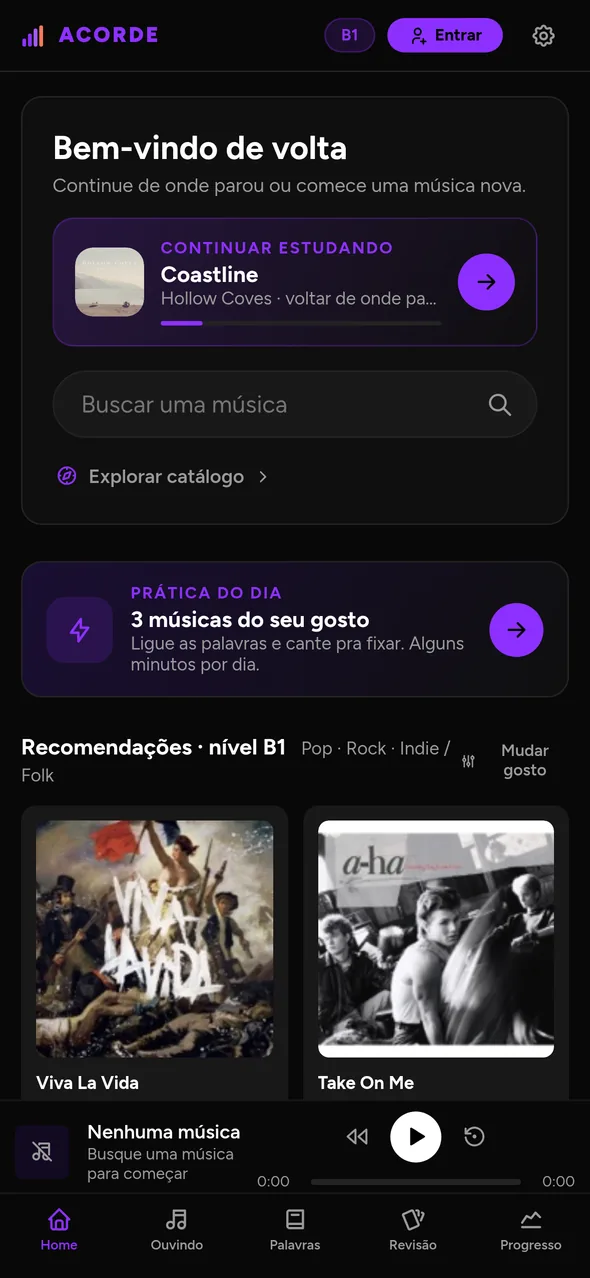
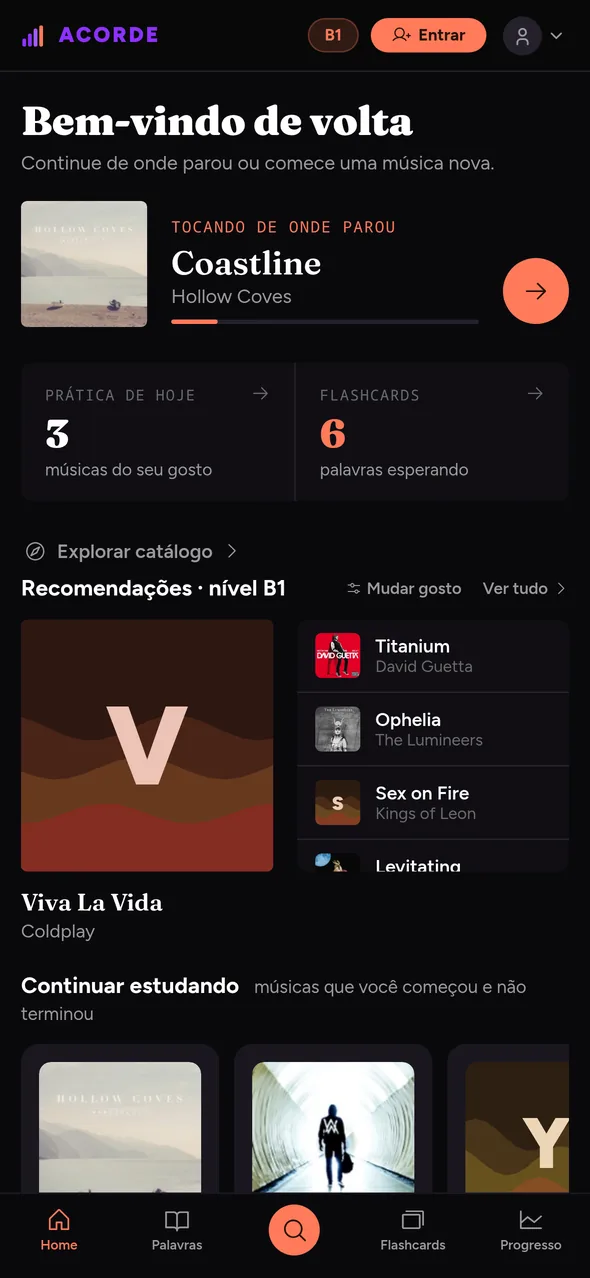
feat: faixa horizontal do Acorde e telas com a identidade nova
Na home, antes da secao Projetos, uma faixa que traduz scroll vertical em
horizontal: 6 paineis narrando uma sessao de estudo do inicio ao fim, mais
um painel de fechamento que leva ao case.

- motion (Framer Motion) adicionado: home foi de 118 kB para 164 kB de
  First Load JS. Unica dependencia de animacao do projeto.
- Deslocamento em porcentagem do trilho, nao em vw: 100vw inclui a barra
  de rolagem e cortava o ultimo painel pela largura dela.
- Abaixo de 1024px, ou com prefers-reduced-motion, vira carrossel de
  arrastar com snap. Scroll-jack em touch e hostil.
- Telas do Acorde recapturadas: a identidade mudou de roxo para coral com
  serifa Fraunces. As anteriores mostravam a UI velha.
- Card destacado do Acorde deixa de repetir imagem e bullets, vira ponte
  para o case. ProjectShots removido.

diff --git a/components/AcordeShowcase.tsx b/components/AcordeShowcase.tsx
@@ -1,0 +1,200 @@
+"use client";
+
+import { Children, useEffect, useRef, useState } from "react";
+import Link from "next/link";
+import { motion, useScroll, useTransform } from "motion/react";
+import { useLanguage } from "@/lib/context";
+
+/**
+ * Faixa horizontal do Acorde.
+ *
+ * No desktop o scroll vertical é traduzido em deslocamento horizontal por um
+ * container alto com miolo sticky. No celular vira carrossel de arrastar com
+ * snap — scroll-jack em touch é hostil e engasga.
+ */
+export default function AcordeShowcase() {
+  const { t } = useLanguage();
+  const s = t.acordeShowcase;
+  const [horizontal, setHorizontal] = useState(false);
+
+  useEffect(() => {
+    const mq = window.matchMedia("(min-width: 1024px) and (prefers-reduced-motion: no-preference)");
+    const sync = () => setHorizontal(mq.matches);
+    sync();
+    mq.addEventListener("change", sync);
+    // resize como rede de seguranca: em zoom e em alguns navegadores o evento
+    // change do matchMedia nao chega, e o modo ficaria preso no que carregou.
+    window.addEventListener("resize", sync);
+    return () => {
+      mq.removeEventListener("change", sync);
+      window.removeEventListener("resize", sync);
+    };
+  }, []);
+
+  // +1 pelo painel de fechamento
+  const total = s.panels.length + 1;
+
+  return (
+    <section id="acorde" className="relative border-t border-[var(--border)]">
+      <Header eyebrow={s.eyebrow} title={s.title} lead={s.lead} />
+      {horizontal ? (
+        <HorizontalTrack total={total}>
+          {s.panels.map((p) => (
+            <Panel key={p.n} {...p} />
+          ))}
+          <Closing closing={s.closing} />
+        </HorizontalTrack>
+      ) : (
+        <div className="flex snap-x snap-mandatory gap-4 overflow-x-auto px-6 pb-16 [scrollbar-width:none] [&::-webkit-scrollbar]:hidden">
+          {s.panels.map((p) => (
+            <div key={p.n} className="w-[85vw] shrink-0 snap-center">
+              <Panel {...p} compact />
+            </div>
+          ))}
+          <div className="w-[85vw] shrink-0 snap-center">
+            <Closing closing={s.closing} compact />
+          </div>
+        </div>
+      )}
+    </section>
+  );
+}
+
+function Header({ eyebrow, title, lead }: { eyebrow: string; title: string; lead: string }) {
+  return (
+    <div className="mx-auto max-w-6xl px-6 pt-24 pb-10">
+      <h2 className="mb-3 font-mono text-xs uppercase tracking-widest text-accent">{eyebrow}</h2>
+      <p className="max-w-2xl text-3xl font-semibold tracking-tight text-primary sm:text-4xl">
+        {title}
+      </p>
+      <p className="mt-4 max-w-xl leading-relaxed text-muted">{lead}</p>
+    </div>
+  );
+}
+
+/** Container alto + miolo sticky: o progresso do scroll vira translateX. */
+function HorizontalTrack({ total, children }: { total: number; children: React.ReactNode }) {
+  const ref = useRef<HTMLDivElement>(null);
+  const { scrollYProgress } = useScroll({ target: ref, offset: ["start start", "end end"] });
+  // porcentagem do proprio trilho, nao vw: 100vw inclui a barra de rolagem e
+  // deixaria o ultimo painel cortado pela largura dela.
+  const x = useTransform(scrollYProgress, [0, 1], ["0%", `-${((total - 1) / total) * 100}%`]);
+  const progress = useTransform(scrollYProgress, [0, 1], ["0%", "100%"]);
+
+  return (
+    <div ref={ref} style={{ height: `${total * 80}vh` }}>
+      <div className="sticky top-0 h-screen overflow-hidden">
+        <motion.div
+          style={{ x, width: `${total * 100}%` }}
+          className="flex h-full will-change-transform"
+        >
+          {Children.map(children, (child) => (
+            <div className="h-full shrink-0" style={{ width: `${100 / total}%` }}>
+              {child}
+            </div>
+          ))}
+        </motion.div>
+
+        {/* trilho de progresso da faixa */}
+        <div className="absolute inset-x-0 bottom-10 mx-auto h-px w-40 bg-[var(--border)]">
+          <motion.div style={{ width: progress }} className="h-full bg-[var(--text)]" />
+        </div>
+      </div>
+    </div>
+  );
+}
+
+function Panel({
+  n,
+  title,
+  body,
+  shot,
+  alt,
+  compact = false,
+}: {
+  n: string;
+  title: string;
+  body: string;
+  shot: string;
+  alt: string;
+  compact?: boolean;
+}) {
+  return (
+    <div
+      className={
+        compact
+          ? "flex flex-col items-center gap-6 rounded-2xl border border-[var(--border)] bg-surface p-8"
+          : "flex h-full w-full items-center justify-center px-16"
+      }
+    >
+      <div
+        className={
+          compact
+            ? "flex flex-col items-center gap-6 text-center"
+            : "flex max-w-4xl items-center gap-16"
+        }
+      >
+        <div className="shrink-0 rounded-[1.75rem] border border-[var(--border)] bg-surface p-1.5 shadow-2xl shadow-black/60">
+          {/* eslint-disable-next-line @next/next/no-img-element */}
+          <img
+            src={shot}
+            alt={alt}
+            width={590}
+            height={1278}
+            loading="lazy"
+            className="block rounded-[1.35rem]"
+            style={{ width: compact ? 200 : 250 }}
+          />
+        </div>
+
+        <div className={compact ? "" : "max-w-sm"}>
+          <span className="font-mono text-xs text-accent">{n}</span>
+          <h3 className="mt-3 text-2xl font-semibold tracking-tight text-primary sm:text-3xl">
+            {title}
+          </h3>
+          <p className="mt-4 leading-relaxed text-muted">{body}</p>
+        </div>
+      </div>
+    </div>
+  );
+}
+
+function Closing({
+  closing,
+  compact = false,
+}: {
+  closing: { title: string; body: string; cta: string; visit: string };
+  compact?: boolean;
+}) {
+  return (
+    <div
+      className={
+        compact
+          ? "flex h-full flex-col justify-center rounded-2xl border border-[var(--border)] bg-surface p-8 text-center"
+          : "flex h-full w-full flex-col items-center justify-center px-16 text-center"
+      }
+    >
+      <h3 className="max-w-2xl text-3xl font-semibold tracking-tight text-primary sm:text-5xl">
+        {closing.title}
+      </h3>
+      <p className="mt-6 max-w-xl leading-relaxed text-muted">{closing.body}</p>
+
+      <div className="mt-10 flex flex-wrap justify-center gap-4">
+        <Link
+          href="/projetos/acorde"
+          className="bg-accent px-6 py-3 font-mono text-sm text-black transition-opacity duration-150 hover:opacity-80"
+        >
+          {closing.cta} →
+        </Link>
+        <a
+          href="https://acorde.club"
+          target="_blank"
+          rel="noopener noreferrer"
+          className="border border-[var(--border)] px-6 py-3 font-mono text-sm text-primary transition-colors duration-150 hover:border-accent"
+        >
+          {closing.visit} ↗
+        </a>
+      </div>
+    </div>
+  );
+}

diff --git a/lib/translations.ts b/lib/translations.ts
@@ -287,6 +287,25 @@ export const translations = {
         "Root Cause Analysis",
       ],
     },
+    acordeShowcase: {
+      eyebrow: "LIVE PRODUCT",
+      title: "One study session, start to finish",
+      lead: "Acorde turns a song you already listen to into an English lesson. This is what a single session looks like.",
+      panels: [
+        { n: "01", title: "You pick the song", body: "No fixed word list. The lesson starts from something you already wanted to hear.", shot: "/acorde/home.webp", alt: "Acorde home screen" },
+        { n: "02", title: "The lyric follows the audio", body: "Synced line by line, with translation one tap away. Reading never interrupts listening.", shot: "/acorde/letra.webp", alt: "Synced lyrics with translation" },
+        { n: "03", title: "Focus mode: one line at a time", body: "Everything else blurs out. The cognitive load drops to a single sentence.", shot: "/acorde/foco.webp", alt: "Focus mode, one line at a time" },
+        { n: "04", title: "You sing it, you get a score", body: "Whisper transcribes and grades word by word. When the API fails, the browser engine takes over.", shot: "/acorde/fala.webp", alt: "Speaking practice with per-word score" },
+        { n: "05", title: "The hard word becomes a flashcard", body: "What you missed goes into spaced repetition (SM-2) and comes back exactly when you are about to forget.", shot: "/acorde/revisao.webp", alt: "Spaced repetition flashcard" },
+        { n: "06", title: "The streak holds the routine", body: "Daily challenge, XP and push reminders. Each one exists to bring you back to a session that already works.", shot: "/acorde/progresso.webp", alt: "Progress and streak screen" },
+      ],
+      closing: {
+        title: "Built, tested and operated end to end",
+        body: "Same standards I use as a QA: instrumented activation funnel, tested critical paths and every feature measured in production before scaling.",
+        cta: "Read the full case study",
+        visit: "Open acorde.club",
+      },
+    },
     acordeCase: {
       back: "Back to portfolio",
       eyebrow: "CASE STUDY",
@@ -739,6 +758,25 @@ export const translations = {
         "Acessibilidade WCAG",
         "Análise de Causa Raiz",
       ],
+    },
+    acordeShowcase: {
+      eyebrow: "PRODUTO NO AR",
+      title: "Uma sessão de estudo, do início ao fim",
+      lead: "O Acorde transforma uma música que você já ouve em aula de inglês. É assim que uma sessão acontece.",
+      panels: [
+        { n: "01", title: "Você escolhe a música", body: "Sem lista fixa de palavras. A aula começa por algo que você já queria ouvir.", shot: "/acorde/home.webp", alt: "Tela inicial do Acorde" },
+        { n: "02", title: "A letra acompanha o áudio", body: "Sincronizada linha a linha, com tradução a um toque. Ler nunca interrompe ouvir.", shot: "/acorde/letra.webp", alt: "Letra sincronizada com tradução" },
+        { n: "03", title: "Modo foco: uma linha por vez", body: "Todo o resto desfoca. A carga cognitiva cai para uma frase só.", shot: "/acorde/foco.webp", alt: "Modo foco, uma linha por vez" },
+        { n: "04", title: "Você canta e recebe a nota", body: "O Whisper transcreve e avalia palavra a palavra. Quando a API falha, o motor do navegador assume.", shot: "/acorde/fala.webp", alt: "Prática de fala com nota por palavra" },
+        { n: "05", title: "A palavra difícil vira flashcard", body: "O que você errou entra na revisão espaçada (SM-2) e volta na hora em que você ia esquecer.", shot: "/acorde/revisao.webp", alt: "Flashcard de revisão espaçada" },
+        { n: "06", title: "O streak segura a rotina", body: "Desafio diário, XP e lembretes push. Cada um existe para trazer você de volta a uma sessão que já funciona.", shot: "/acorde/progresso.webp", alt: "Tela de progresso e streak" },
+      ],
+      closing: {
+        title: "Construído, testado e operado de ponta a ponta",
+        body: "Os mesmos padrões que uso como QA: funil de ativação instrumentado, caminhos críticos testados e cada feature medida em produção antes de escalar.",
+        cta: "Ver o estudo de caso completo",
+        visit: "Abrir acorde.club",
+      },
     },
     acordeCase: {
       back: "Voltar ao portfólio",

diff --git a/components/Projects.tsx b/components/Projects.tsx
@@ -4,7 +4,6 @@ import Link from "next/link";
 import { useLanguage } from "@/lib/context";
 import { useInView } from "@/hooks/useInView";
 import SpotlightCard from "@/components/SpotlightCard";
-import ProjectShots from "@/components/ProjectShots";
 
 export default function Projects() {
   const { t, lang } = useLanguage();
@@ -35,8 +34,8 @@ export default function Projects() {
           {/* FEATURED */}
           {featured && (
             <SpotlightCard className="mb-4">
-              <div className="p-8 flex flex-col lg:flex-row gap-10">
-                <div className="flex-1 min-w-0">
+              <div className="p-8">
+                <div className="min-w-0">
                   <div className="flex flex-wrap items-center gap-3 mb-4">
                     <h3 className="text-xl font-semibold text-primary">{featured.title}</h3>
                     {featured.label && (
@@ -58,16 +57,6 @@ export default function Projects() {
 
                   <p className="text-muted leading-relaxed mb-5">{featured.description}</p>
 
-                  {featured.detail && (
-                    <ul className="space-y-2 mb-6">
-                      {featured.detail.map((item, i) => (
-                        <li key={i} className="flex gap-2 text-sm text-muted">
-                          <span className="text-accent font-mono mt-0.5 shrink-0">—</span>
-                          <span>{item}</span>
-                        </li>
-                      ))}
-                    </ul>
-                  )}
 
                   <div className="flex flex-wrap gap-2">
                     {featured.tags.map((tag) => (
@@ -84,32 +73,7 @@ export default function Projects() {
                     {lang === "en" ? "Read the full case study" : "Ver o estudo de caso completo"} →
                   </Link>
                 </div>
-
-                {featured.snapshot && (
-                  <div className="lg:w-60 shrink-0">
-                    <p className="font-mono text-[10px] text-muted uppercase tracking-widest mb-3">
-                      // snapshot
-                    </p>
-                    <div className="border border-[var(--border)] divide-y divide-[var(--border)]">
-                      {featured.snapshot.map((m) => (
-                        <div key={m.label} className="flex items-center justify-between px-4 py-3">
-                          <span className="text-xs text-muted">{m.label}</span>
-                          <div className="flex items-center gap-1.5">
-                            <span className="font-mono text-sm font-semibold text-primary">{m.value}</span>
-                            {"up" in m && m.up !== undefined && (
-                              <span className={`font-mono text-[10px] ${m.up ? "text-green-500" : "text-red-400"}`}>
-                                {m.up ? "▲" : "▼"}
-                              </span>
-                            )}
-                          </div>
-                        </div>
-                      ))}
-                    </div>
-                  </div>
-                )}
               </div>
-
-              <ProjectShots alt={featured.title} />
             </SpotlightCard>
           )}
 

diff --git a/app/page.tsx b/app/page.tsx
@@ -3,6 +3,7 @@ import Grain from "@/components/Grain";
 import ScrollProgress from "@/components/ScrollProgress";
 import Hero from "@/components/Hero";
 import About from "@/components/About";
+import AcordeShowcase from "@/components/AcordeShowcase";
 import Projects from "@/components/Projects";
 import Experience from "@/components/Experience";
 import Education from "@/components/Education";
@@ -20,6 +21,7 @@ export default function Home() {
       <main>
         <Hero />
         <About />
+        <AcordeShowcase />
         <Projects />
         <Experience />
         <Education />

diff --git a/CLAUDE.md b/CLAUDE.md
@@ -15,7 +15,7 @@ npx tsc --noEmit # verificar tipos sem compilar
 - **Next.js 14** App Router (sem pages/)
 - **Tailwind CSS** com tema via CSS variables (não classes zinc/gray)
 - **TypeScript** strict
-- **Sem bibliotecas de animação** — tudo CSS puro + Canvas API
+- **`motion`** (Framer Motion) para animação ligada ao scroll — adicionada em ago/2026 pela faixa horizontal do Acorde. Custo real medido: home foi de 118 kB para 164 kB de First Load JS. O resto do site segue em CSS puro + Canvas API; só use `motion` quando precisar de scroll-linked de verdade.
 
 ## Arquitetura
 
@@ -72,6 +72,8 @@ style={{ animationDelay: "0.6s", animationFillMode: "both" }}
 | `CaseNav.tsx` | Nav slim das páginas de case: voltar + toggle de idioma |
 | `AcordeCase.tsx` | Conteúdo do estudo de caso do Acorde (`/projetos/acorde`) |
 | `PhoneShot.tsx` | Grupo de telas em moldura de celular; com mais de um src os aparelhos ficam escalonados |
+| `AcordeShowcase.tsx` | Faixa horizontal do Acorde na home: 6 painéis de narrativa + 1 de fechamento |
+| `ScrollProgress.tsx` | Barra fina de progresso de leitura no topo |
 
 ## Rotas
 
@@ -80,7 +82,19 @@ style={{ animationDelay: "0.6s", animationFillMode: "both" }}
 
 ## Imagens do Acorde
 
-Telas em `public/acorde/*.webp` (590×1278, ~35 KB cada). Origem: `~/Documentos/acorde-carrosseis/telas/*.png` (1179×2556), convertidas com PIL para webp q82. Para atualizar uma tela, recapture no projeto de carrosséis e reconverta mantendo as dimensões.
+Telas em `public/acorde/*.webp` (590×1278, 339 KB no total). Origem: `~/Documentos/acorde-carrosseis/telas/*.png` (1179×2556), convertidas com PIL para webp q82.
+
+Para atualizar: `cd ~/Documentos/lyriclearn && npm run dev`, depois `cd ~/Documentos/acorde-carrosseis && node capturar.mjs`, e reconverter mantendo 590×1278.
+
+**A identidade do Acorde mudou em ago/2026** (roxo → coral `#ff7a59` + serifa Fraunces, roxo `#8c30ff` só no logo). Se as telas parecerem todas roxas, estão velhas.
+
+## Faixa horizontal (AcordeShowcase)
+
+Container alto (`total * 80vh`) com miolo `sticky`; `useScroll` + `useTransform` viram `translateX` no trilho.
+
+Regra que não pode quebrar: o trilho usa **porcentagem de si mesmo**, nunca `vw`. `100vw` inclui a barra de rolagem e o último painel fica cortado pela largura dela. Trilho = `total * 100%`, painel = `100 / total %`, deslocamento = `-((total - 1) / total) * 100%`.
+
+Abaixo de 1024px, ou com `prefers-reduced-motion`, vira carrossel de arrastar com snap. Scroll-jack em touch é hostil.
 
 ## Hooks
 
